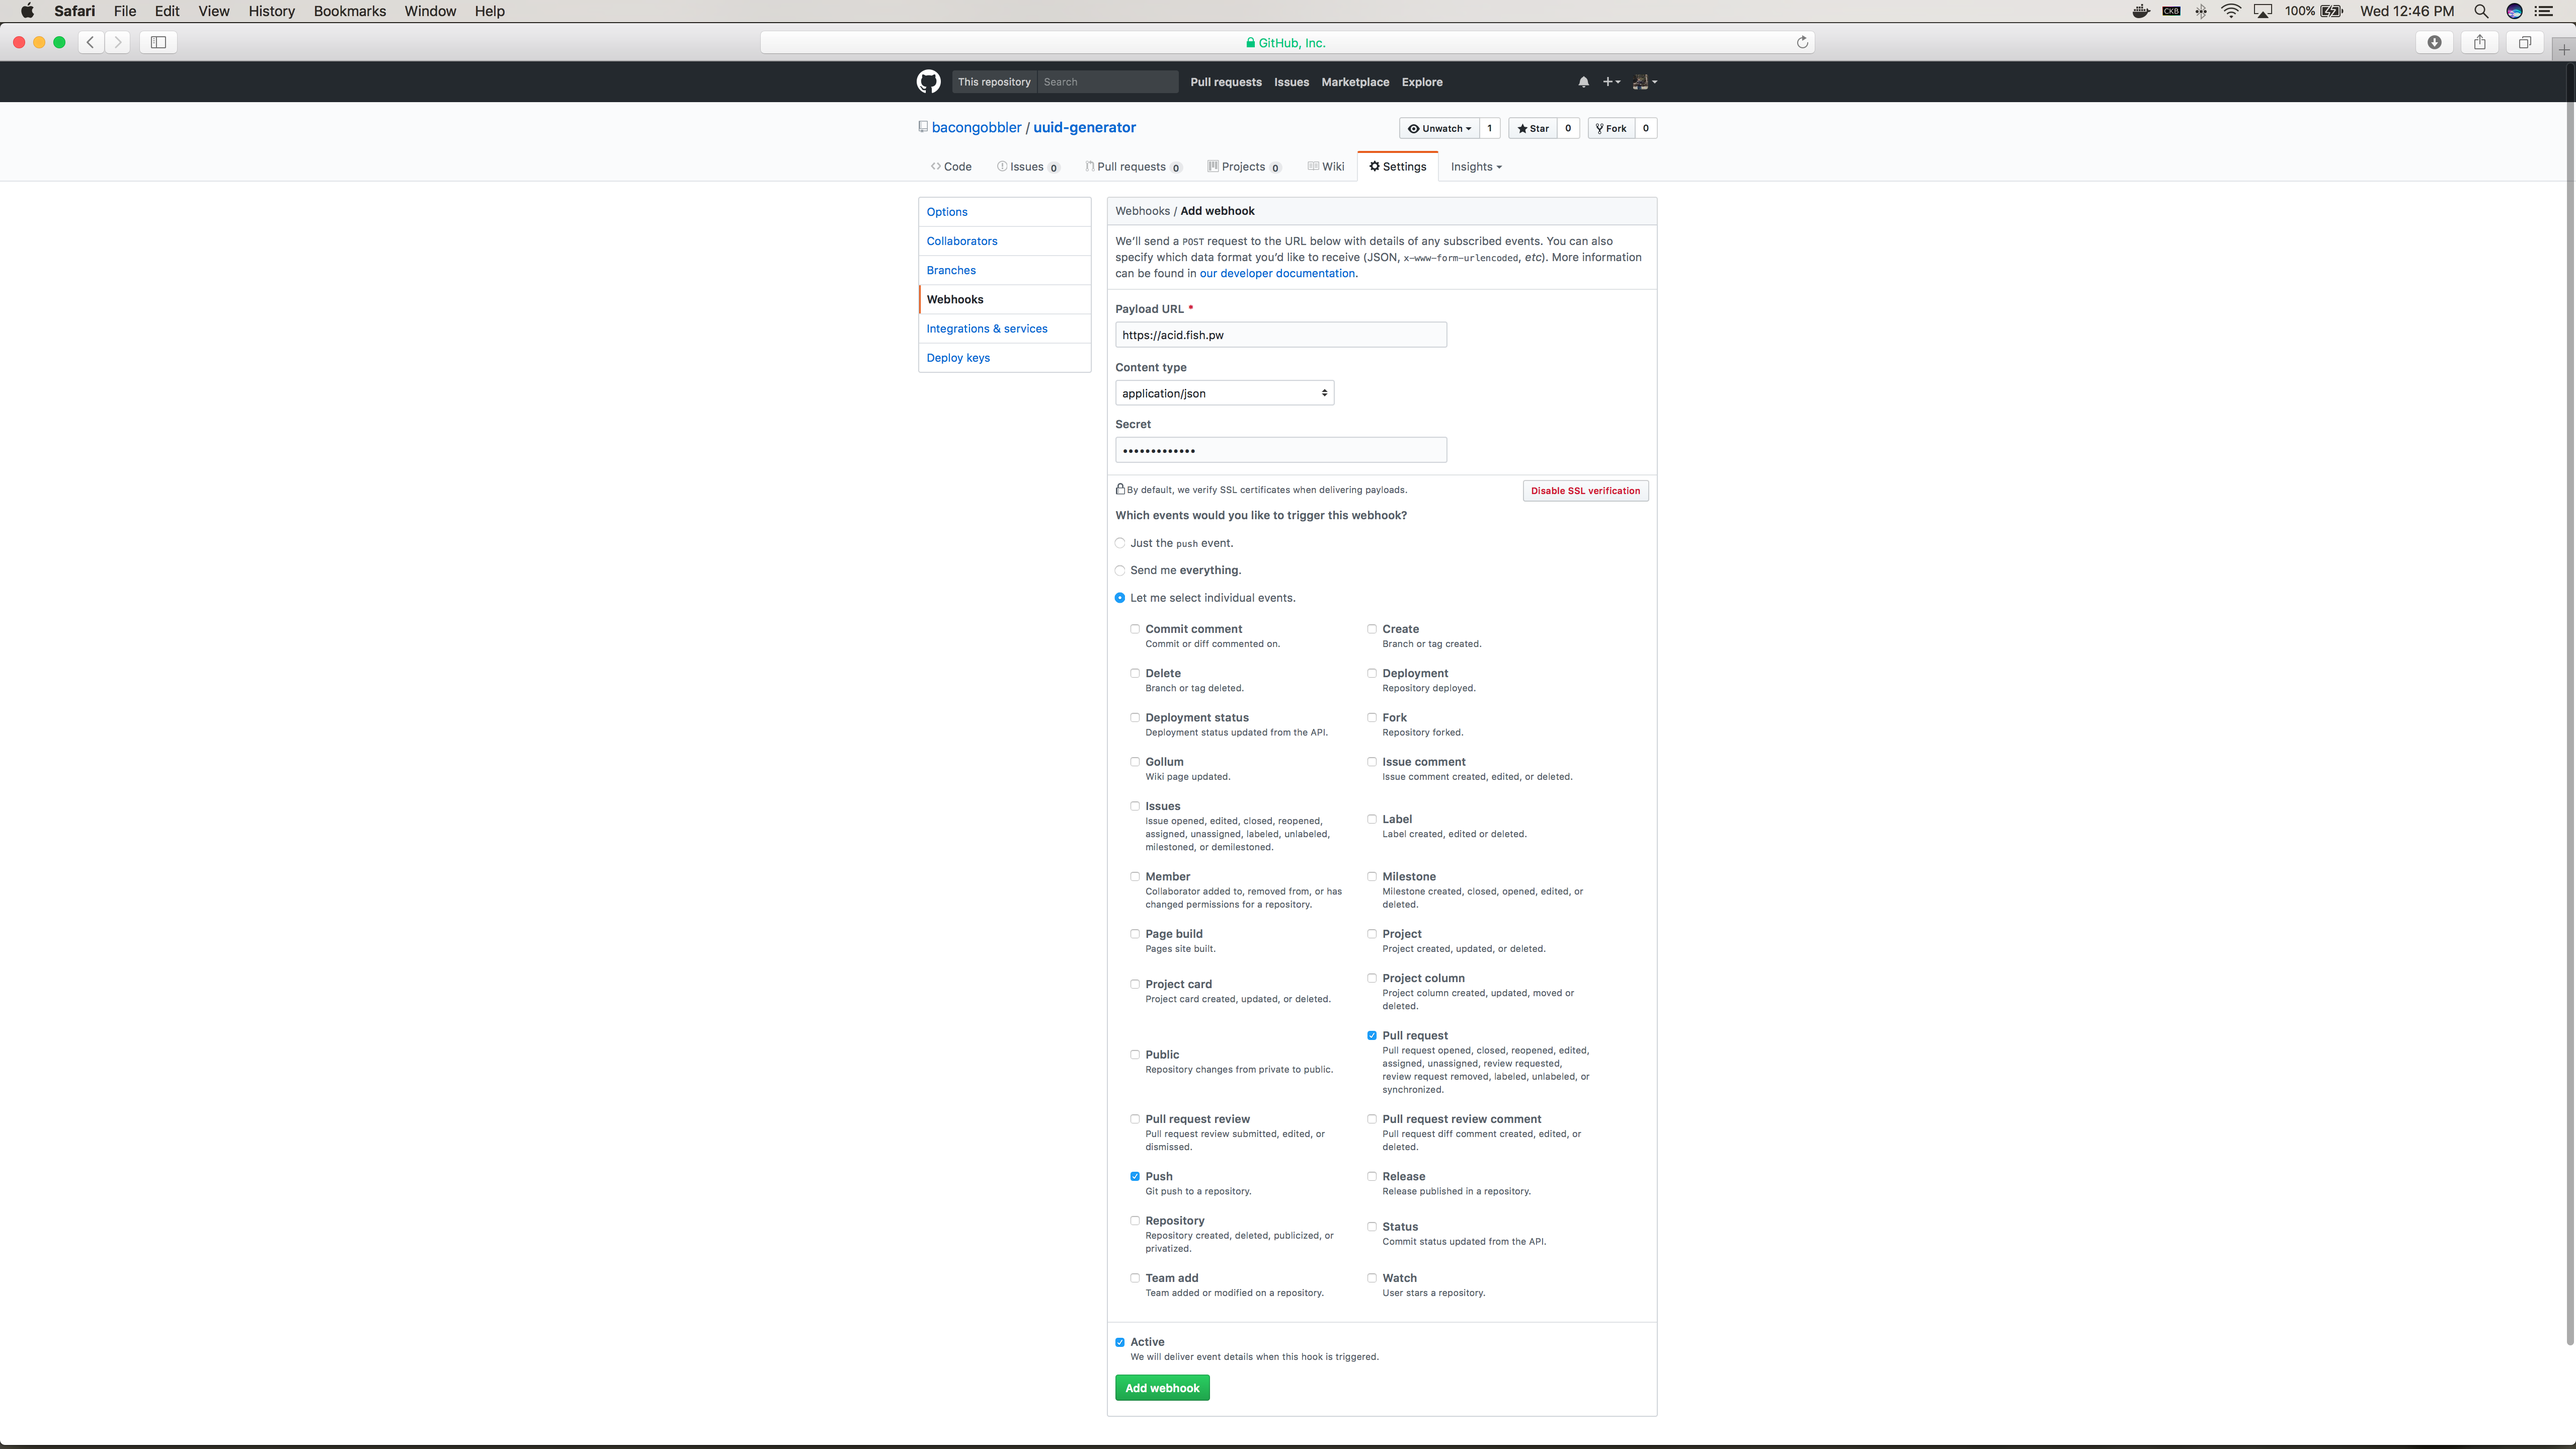
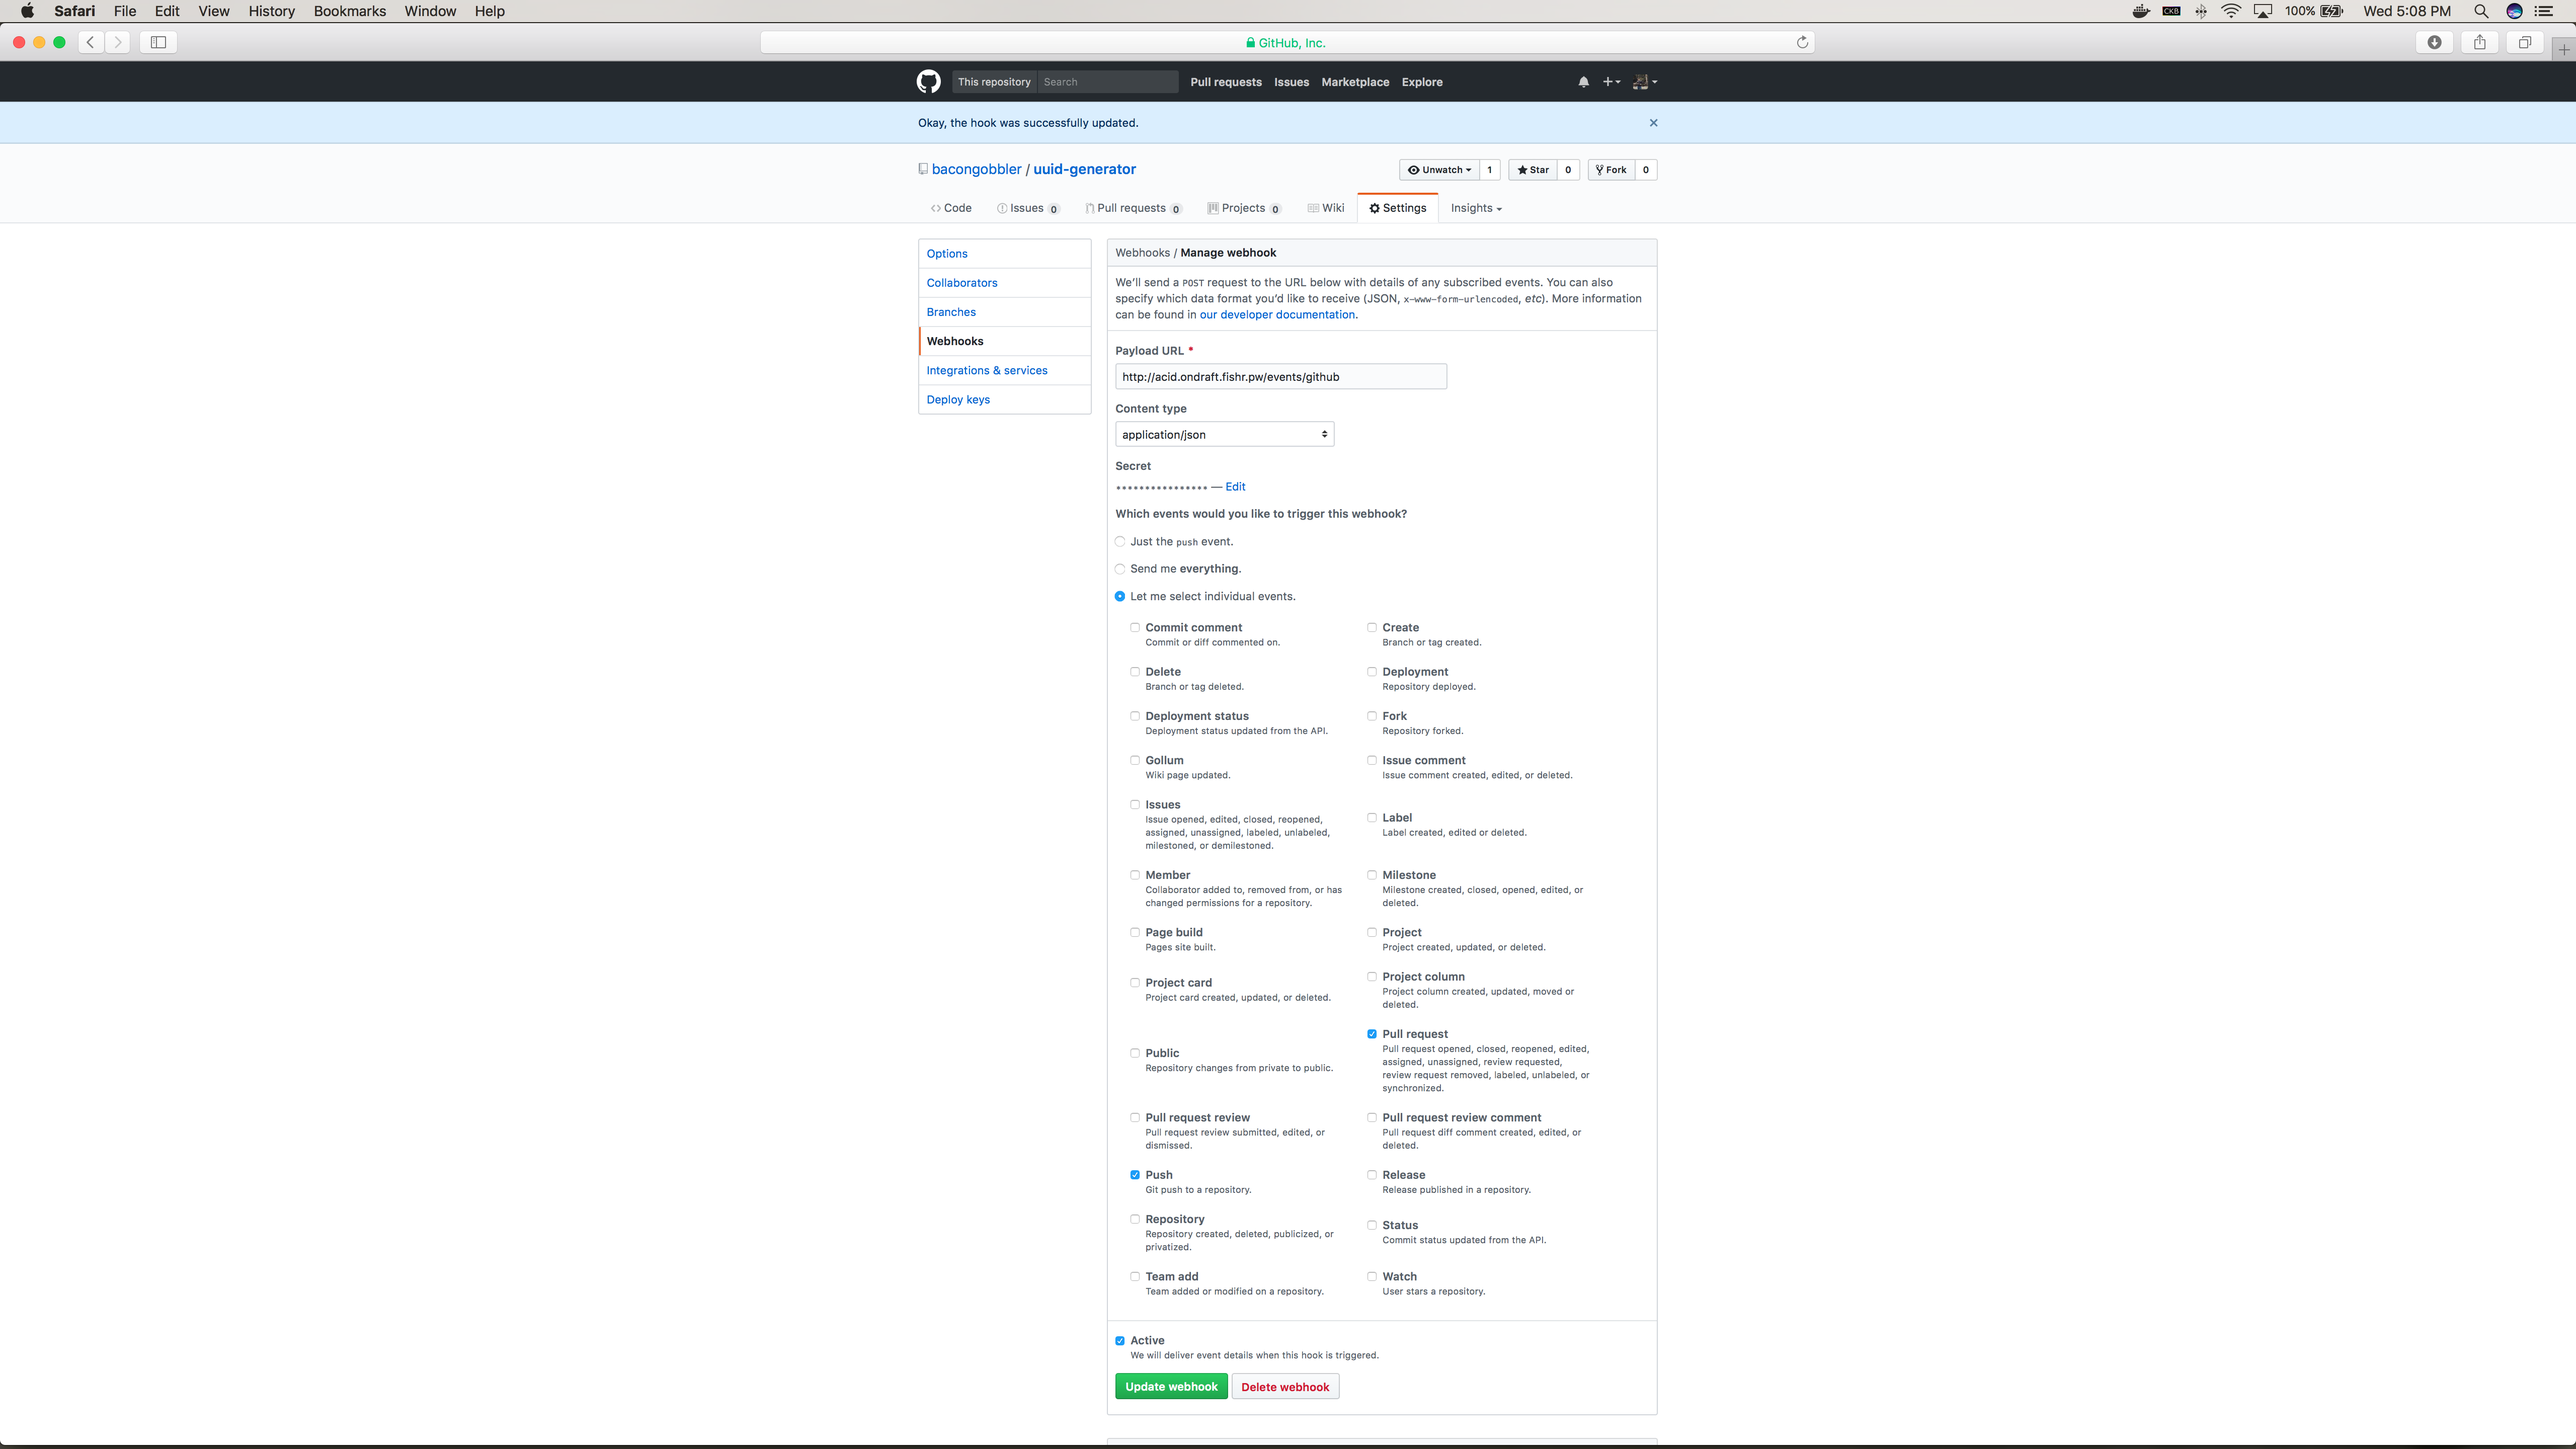
add more screenshots

diff --git a/docs/intro/tutorial04.md b/docs/intro/tutorial04.md
@@ -66,6 +66,14 @@ Ran 1 test in 0.010s
 OK
 ```
 
+Now is a good time to commit your work.
+
+```
+$ git add tests/ setup.py
+$ git commit -m "add unit tests"
+$ git push origin master
+```
+
 ## Create an acid.js file
 
 Now that we have successfully written tests for our app and configured an Acid project, it's time to make use of them.
@@ -126,7 +134,7 @@ events.on("push", function(e, project) {
 })
 ```
 
-The example above introduces Acid `Job`s. A Job is a particular build step. Each job can run a Docker container and feed it multiple commands.
+The example above introduces Acid jobs. A Job is a particular build step. Each job can run a Docker container and feed it multiple commands.
 
 Above, we create the `test-runner` job, have it use the [python:3](https://hub.docker.com/_/python/) image, and then set it up to run the following commands in that container:
 
@@ -135,6 +143,19 @@ Above, we create the `test-runner` job, have it use the [python:3](https://hub.d
 - `python setup.py test`: Run the test suite for our project.
 
 Finally, when we run `node.run()`, the job is built and executed. If it passes, all is good. If it fails, Acid and Github are notified.
+
+At this point, you should commit your work to a new branch and check that it all works:
+
+```
+$ git checkout -b add-acid
+$ git add .
+$ git commit -m "add acid.js"
+$ git push origin add-acid
+```
+
+Open up a new pull request on your repository using the branch. You should see a status icon for your new commit. Assuming all is set up, you should see a shiny green checkmark next to your commit.
+
+<img src="img/img5.png" style="height: 500px;" />
 
 This concludes the basic tutorial. If you are familiar with Acid and are interested in learning how to refactor acid.js into a more efficient test pipeline, check out [Advanced tutorial: Writing efficient pipelines][efficient-pipelines].
 

diff --git a/docs/intro/tutorial03.md b/docs/intro/tutorial03.md
@@ -53,14 +53,13 @@ Your project configuration can now be managed by Helm. Use `helm upgrade` to cha
 
 We want to build our project each time a new commit is pushed to master, and each time we get a new Pull Request.
 
-To do this, log into your project (substituting *bacongobbler* for your own Github username) on https://github.com/bacongobbler/uuid-generator/settings.
+To do this, log into your project (substituting *bacongobbler* for your own Github username) on https://github.com/bacongobbler/uuid-generator/settings/hooks.
 
 From your project...
 
-1. In the left navigation, click on `Webhooks`
-2. On the Webhooks screen, click `Add Webhook`
-3. Complete the form:
-  - Payload URL should be the URL to your ACID server
+1. On the Webhooks screen, click `Add Webhook`
+2. Complete the form:
+  - Payload URL should be the URL to your ACID server, adding the github webhook endpoint (e.g. https://acid.example.com/events/github)
   - Content-Type should be `application/json`
   - Secret should be your secret in the YAML file (`MySuperSecret`)
   - In the radio buttons, choose `Let me select individual events`
